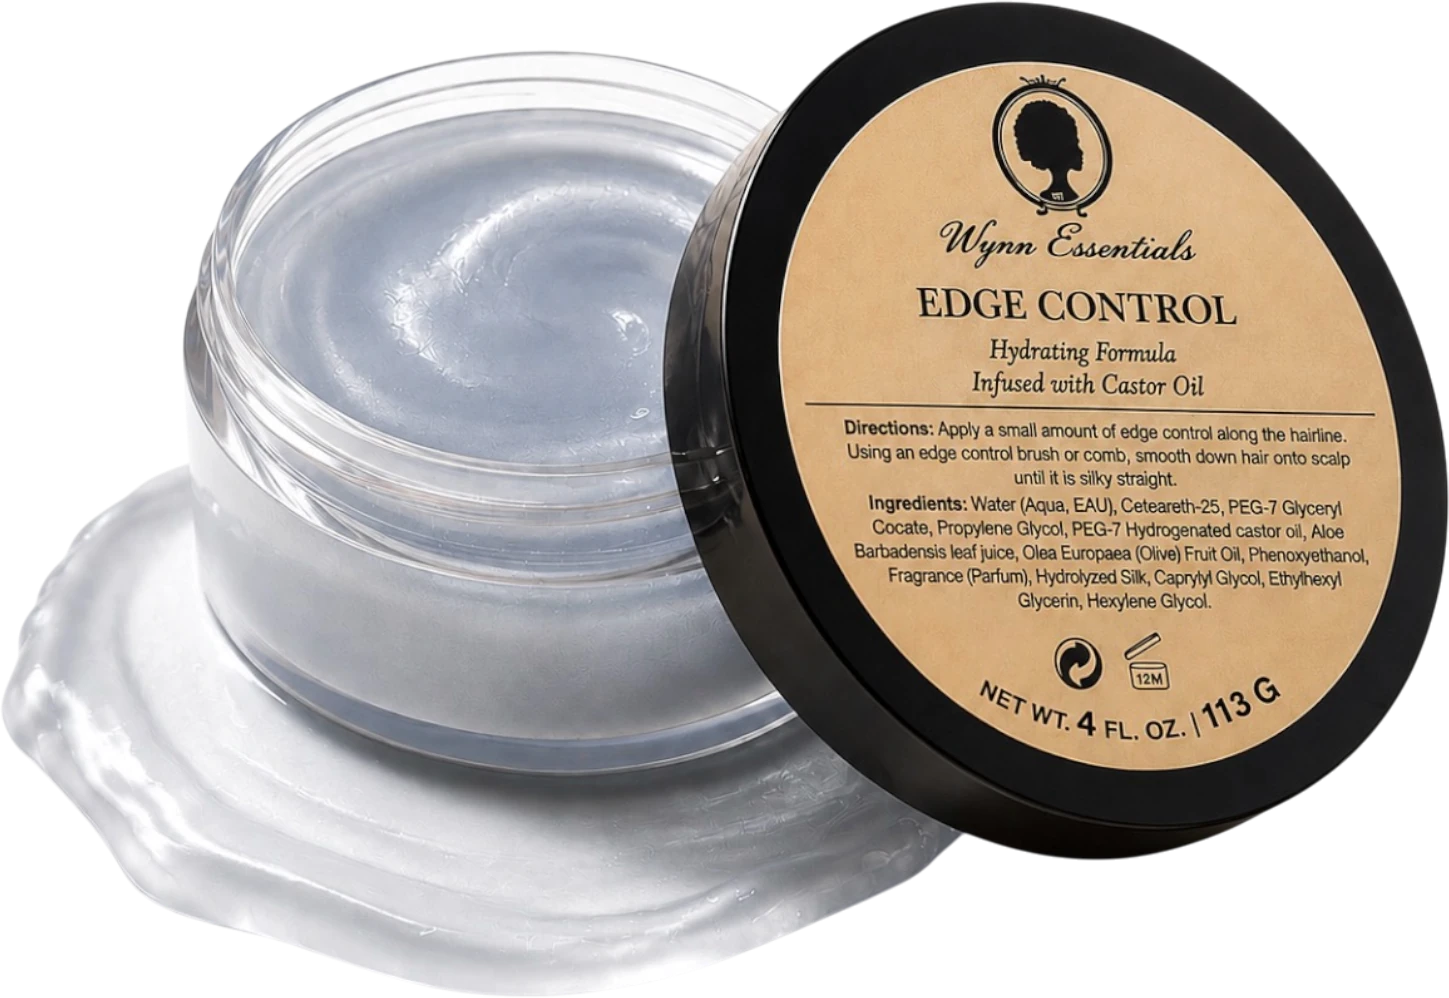
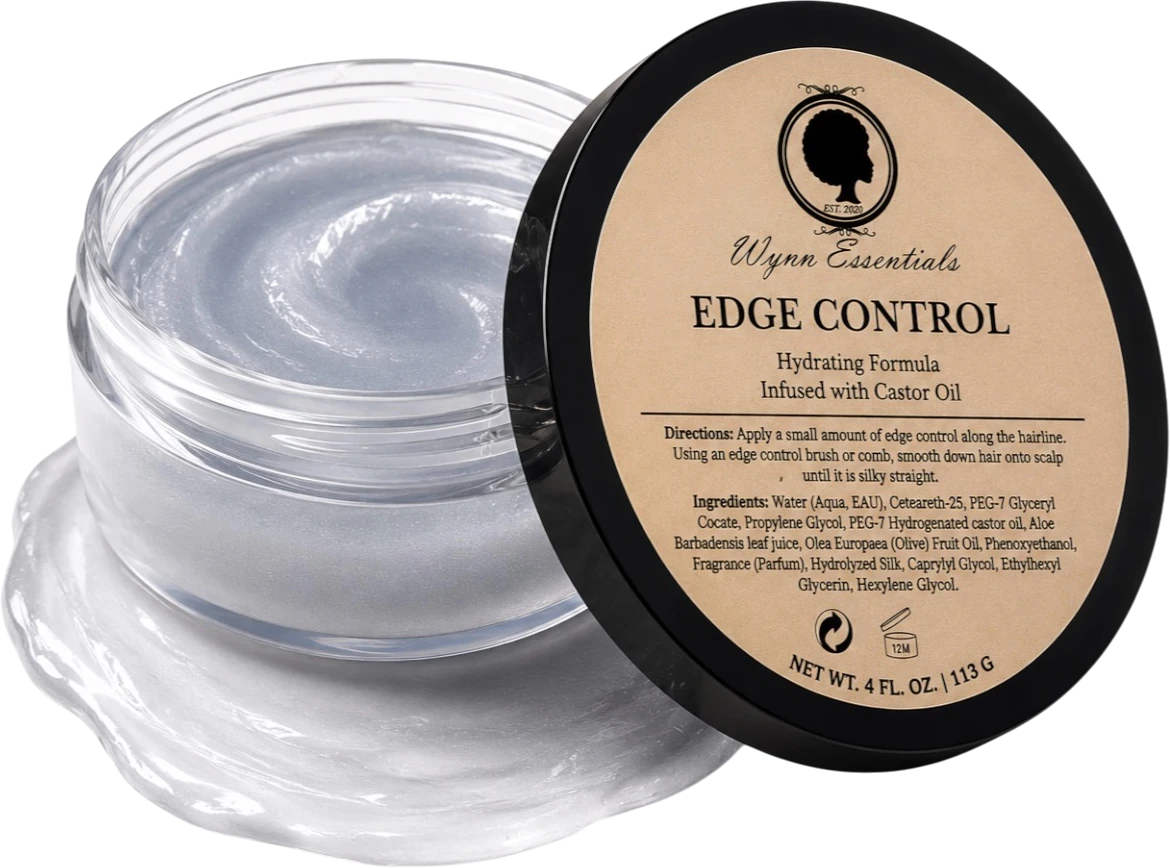
Swap in sharper Edge Control image and center it on mobile
- Replace the Edge Control cutout with a sharper, cleaner transparent
  image (crisp label), trimmed to the product (1170x868).
- Fix mobile centering: after the product was restructured into nested
  tilt layers, the old mobile rule only capped the image width and left
  it left-aligned. Cap and center the whole product wrapper instead
  (max-width with margin auto) so the image, shadow, and tilt stay
  centered under the copy.

Claude-Session: https://claude.ai/code/session_01CbnvEYzHkLJYUMQDiX78HP

diff --git a/app/globals.css b/app/globals.css
@@ -37,7 +37,7 @@
 .color-picker button.active{border-color:#2b2115;background:#2b2115;color:#fff}.product-info select{padding:12px;border:1px solid var(--line)}.product-info>small{display:block;margin-top:12px;color:var(--muted)}.product-info h3,.modal-wide h3{font-family:var(--font-display);font-size:40px;margin:50px 0 20px}.benefit-list{padding:0;list-style:none}.benefit-list li{padding:11px 0;border-top:1px solid var(--line);font-size:12px}.accordions details{border-top:1px solid var(--line);padding:18px 0}.accordions summary{font-weight:800;font-size:12px;cursor:pointer}.accordions details p{font-size:12px}.modal-wide{grid-column:1/-1;padding:50px clamp(25px,5vw,80px)}.method-placement{background:var(--soft)}.method-placement>div{display:grid;grid-template-columns:repeat(6,1fr);gap:5px}.method-placement span{padding:20px 10px;border:1px solid var(--line);display:flex;flex-direction:column;font-size:11px}.method-placement span.active{background:var(--kraft)}.method-placement b{font-family:var(--font-display);font-size:30px}.reviews{border-top:1px solid var(--line)}.invitation{background:var(--soft);perspective:1000px}.invitation .modal{background:transparent;overflow:visible;max-height:none;display:flex;flex-direction:column;align-items:center;width:min(700px,100%)}.envelope{width:min(500px,90vw);height:300px;background:var(--kraft);position:relative;box-shadow:0 20px 70px #63543d3b;display:grid;place-items:center;transition:transform 1.2s}.flap{position:absolute;z-index:2;top:0;left:0;border-left:250px solid transparent;border-right:250px solid transparent;border-top:155px solid var(--kraft-dark);transform-origin:top;transition:transform 1s}.envelope-logo{font-size:13px;font-weight:900;letter-spacing:.25em}.sealed-copy{text-align:center;margin-top:28px;display:flex;flex-direction:column;align-items:center;gap:12px}.invitation-card{position:absolute;top:2vh;width:min(620px,calc(100vw - 32px));max-height:94svh;overflow:auto;background:#fffdf8;padding:clamp(25px,5vw,60px);box-shadow:0 20px 80px #5141264d;text-align:center;transform:translateY(80vh) scale(.8);opacity:0;transition:transform 1.2s,opacity .4s}.invitation.open .flap{transform:rotateX(180deg)}.invitation.open .envelope{transform:translateY(25vh) scale(.85)}.invitation.open .invitation-card{transform:none;opacity:1}.invitation-card header p,.invitation-card dt{font-size:9px;letter-spacing:.18em;font-weight:900}.invitation-card h2{font-size:clamp(40px,7vw,70px);margin:20px 0}.invitation-card dl{display:grid;grid-template-columns:1fr 1fr;gap:18px;text-align:left;margin:30px 0}.invitation-card dd{margin:6px 0;font-size:11px;line-height:1.5}.invitation-card>p{font-size:12px}.presented{font-family:var(--font-display);font-size:17px!important}
 .mobile-menu{background:#fff;padding:0}.mobile-menu .modal{width:100%;height:100%;max-height:none;padding:24px;display:flex;flex-direction:column}.mobile-menu-head{display:flex;justify-content:space-between;align-items:center}.mobile-menu-head button{border:0;background:none}.mobile-menu nav{display:flex;flex-direction:column;margin-top:8vh}.mobile-menu nav>a{font-family:var(--font-display);font-size:clamp(34px,8vw,54px);text-decoration:none;margin:6px 0}.mobile-menu .subnav{display:grid;grid-template-columns:1fr 1fr;margin:10px 0 20px}.mobile-menu .subnav a{font-size:12px;text-decoration:none;padding:7px 0}.invite-menu{margin-top:auto;align-self:flex-start}
 @media(max-width:1050px){.site-header nav{display:none}.menu-trigger{display:block}.site-header{grid-template-columns:1fr auto 1fr}.header-actions a,.header-actions button:first-child{display:none}.product-grid{grid-template-columns:repeat(2,1fr)}.ingredients>div:last-child{grid-template-columns:repeat(3,1fr)}.bundle-products{grid-template-columns:repeat(3,1fr)}}
-@media(max-width:760px){.announcement{font-size:9px}.site-header{height:64px;padding:0 16px}.logo{font-size:15px}.section{padding:72px 20px}h2{font-size:50px}.hero{display:flex;flex-direction:column-reverse;min-height:auto}.hero-image{min-height:0;height:auto}.hero-image img,.hero-image video{height:auto;object-fit:contain}.hero-copy{padding:48px 20px 70px}.hero h1{font-size:68px}.hero-copy>p:not(.eyebrow){font-size:15px}.statement{grid-template-columns:1fr;min-height:0;text-align:center;gap:36px}.statement h2{font-size:49px}.statement-copy{justify-self:center;max-width:none}.statement-copy p:not(.eyebrow){margin-left:auto;margin-right:auto}.statement-product img{max-width:min(360px,78%)}.section-heading{display:block}.product-grid{grid-template-columns:1fr;gap:55px}.product-art{height:390px}.method-grid{grid-template-columns:1fr 1fr;gap:35px 10px}.method-image{height:230px}.center-actions{flex-direction:column}.campaign{grid-template-columns:1fr;padding:75px 20px}.campaign .product-art{height:450px;margin-top:45px}.category-section>div a{grid-template-columns:40px 1fr auto;font-size:32px}.style-section>div{grid-template-columns:1fr 1fr}.style-section a{font-size:28px;padding:34px 18px}.ingredients>div:last-child{display:flex;overflow:auto;scroll-snap-type:x mandatory;padding-bottom:16px}.ingredients article{min-width:78vw;scroll-snap-align:start}.philosophy{grid-template-columns:1fr}.philosophy ol{margin-top:35px}.bundle-gallery{height:420px}.bundle-products{display:flex;overflow:auto;text-align:left;padding-bottom:15px}.bundle-products>div{min-width:40vw}.hair-campaign{height:auto;min-height:0;display:flex;flex-direction:column}.hair-campaign img{height:58vh;min-height:430px;object-position:72% center}.hair-campaign>div{padding:64px 20px}.hair-campaign h2{font-size:55px}.founder{grid-template-columns:1fr}.founder-placeholder{height:500px}.routine-finder{grid-template-columns:1fr}.newsletter-content{display:block}.newsletter-content h2{margin:20px 0}.newsletter-content form{margin-top:45px}.newsletter-content form small{display:block;margin-top:10px}.newsletter-gallery{gap:10px;padding:10px}.newsletter-col{gap:10px}.newsletter-col:nth-child(n+4){display:none}footer{grid-template-columns:1fr 1fr}.footer-brand{grid-column:1/-1}.footer-bottom{flex-direction:column;align-items:flex-start;gap:20px}.product-modal{display:block}.product-gallery{display:flex;overflow:auto;scroll-snap-type:x mandatory}.product-gallery .product-art{min-width:90%;height:480px;scroll-snap-align:start}.product-info h2{font-size:56px}.method-placement>div{display:flex;flex-direction:column}.invitation .modal{justify-content:center}.envelope{height:220px}.flap{border-left-width:45vw;border-right-width:45vw;border-top-width:115px}.invitation-card dl{grid-template-columns:1fr}.invitation.open .envelope{transform:translateY(32vh) scale(.75)}}
+@media(max-width:760px){.announcement{font-size:9px}.site-header{height:64px;padding:0 16px}.logo{font-size:15px}.section{padding:72px 20px}h2{font-size:50px}.hero{display:flex;flex-direction:column-reverse;min-height:auto}.hero-image{min-height:0;height:auto}.hero-image img,.hero-image video{height:auto;object-fit:contain}.hero-copy{padding:48px 20px 70px}.hero h1{font-size:68px}.hero-copy>p:not(.eyebrow){font-size:15px}.statement{grid-template-columns:1fr;min-height:0;text-align:center;gap:36px}.statement h2{font-size:49px}.statement-copy{justify-self:center;max-width:none}.statement-copy p:not(.eyebrow){margin-left:auto;margin-right:auto}.statement-product{max-width:min(380px,82%)}.section-heading{display:block}.product-grid{grid-template-columns:1fr;gap:55px}.product-art{height:390px}.method-grid{grid-template-columns:1fr 1fr;gap:35px 10px}.method-image{height:230px}.center-actions{flex-direction:column}.campaign{grid-template-columns:1fr;padding:75px 20px}.campaign .product-art{height:450px;margin-top:45px}.category-section>div a{grid-template-columns:40px 1fr auto;font-size:32px}.style-section>div{grid-template-columns:1fr 1fr}.style-section a{font-size:28px;padding:34px 18px}.ingredients>div:last-child{display:flex;overflow:auto;scroll-snap-type:x mandatory;padding-bottom:16px}.ingredients article{min-width:78vw;scroll-snap-align:start}.philosophy{grid-template-columns:1fr}.philosophy ol{margin-top:35px}.bundle-gallery{height:420px}.bundle-products{display:flex;overflow:auto;text-align:left;padding-bottom:15px}.bundle-products>div{min-width:40vw}.hair-campaign{height:auto;min-height:0;display:flex;flex-direction:column}.hair-campaign img{height:58vh;min-height:430px;object-position:72% center}.hair-campaign>div{padding:64px 20px}.hair-campaign h2{font-size:55px}.founder{grid-template-columns:1fr}.founder-placeholder{height:500px}.routine-finder{grid-template-columns:1fr}.newsletter-content{display:block}.newsletter-content h2{margin:20px 0}.newsletter-content form{margin-top:45px}.newsletter-content form small{display:block;margin-top:10px}.newsletter-gallery{gap:10px;padding:10px}.newsletter-col{gap:10px}.newsletter-col:nth-child(n+4){display:none}footer{grid-template-columns:1fr 1fr}.footer-brand{grid-column:1/-1}.footer-bottom{flex-direction:column;align-items:flex-start;gap:20px}.product-modal{display:block}.product-gallery{display:flex;overflow:auto;scroll-snap-type:x mandatory}.product-gallery .product-art{min-width:90%;height:480px;scroll-snap-align:start}.product-info h2{font-size:56px}.method-placement>div{display:flex;flex-direction:column}.invitation .modal{justify-content:center}.envelope{height:220px}.flap{border-left-width:45vw;border-right-width:45vw;border-top-width:115px}.invitation-card dl{grid-template-columns:1fr}.invitation.open .envelope{transform:translateY(32vh) scale(.75)}}
 @media(max-width:390px){.hero h1{font-size:59px}.actions{flex-direction:column;width:100%}.actions>*{width:100%}.method-grid{grid-template-columns:1fr}.method-image{height:300px}.style-section>div{grid-template-columns:1fr}.ingredients article{min-width:86vw}.bundle-products>div{min-width:58vw}.cart-line{grid-template-columns:72px 1fr}.cart-line>strong{grid-column:2}.search-modal{padding:22px}.search-modal input{font-size:32px}.product-gallery .product-art{height:390px}.product-info{padding:65px 20px 35px}.mobile-menu .subnav{grid-template-columns:1fr}.invitation-card{padding:24px 18px}.invitation-card h2{font-size:37px}}
 @media(prefers-reduced-motion:reduce){*,*:before,*:after{scroll-behavior:auto!important;transition-duration:.01ms!important;animation-duration:.01ms!important}.invitation.open .invitation-card{transform:none}.invitation.open .envelope{transform:translateY(32vh) scale(.75)}}
 

diff --git a/app/WynnShop.tsx b/app/WynnShop.tsx
@@ -157,7 +157,7 @@ function RoutineProduct() {
       <span className="routine-shadow" aria-hidden="true" style={{ transform: `translateX(-50%) translate(${-rot.y * 1.7}px, ${rot.x * 1.2}px) scaleX(${hover ? 1.12 : 1})`, opacity: press ? 0.9 : hover ? 0.48 : 0.8 }} />
       <div className="routine-float">
         <div className="routine-tilt" style={{ transform: `rotateX(${rot.x}deg) rotateY(${rot.y}deg) scale(${lift})` }}>
-          <img className="routine-img" src="/collections/edge-control-routine.webp" alt="Wynn Essentials Edge Control hydrating formula, open jar with a swirl of periwinkle styling cream" width={1449} height={998} loading="lazy" draggable={false} />
+          <img className="routine-img" src="/collections/edge-control-routine.webp" alt="Wynn Essentials Edge Control hydrating formula, open jar with a swirl of periwinkle styling cream" width={1170} height={868} loading="lazy" draggable={false} />
           <span className="routine-sheen" aria-hidden="true" style={{ opacity: hover ? 1 : 0, background: `radial-gradient(circle at ${glow.x}% ${glow.y}%, rgba(255,255,255,.5), rgba(255,255,255,0) 45%)` }} />
         </div>
       </div>
